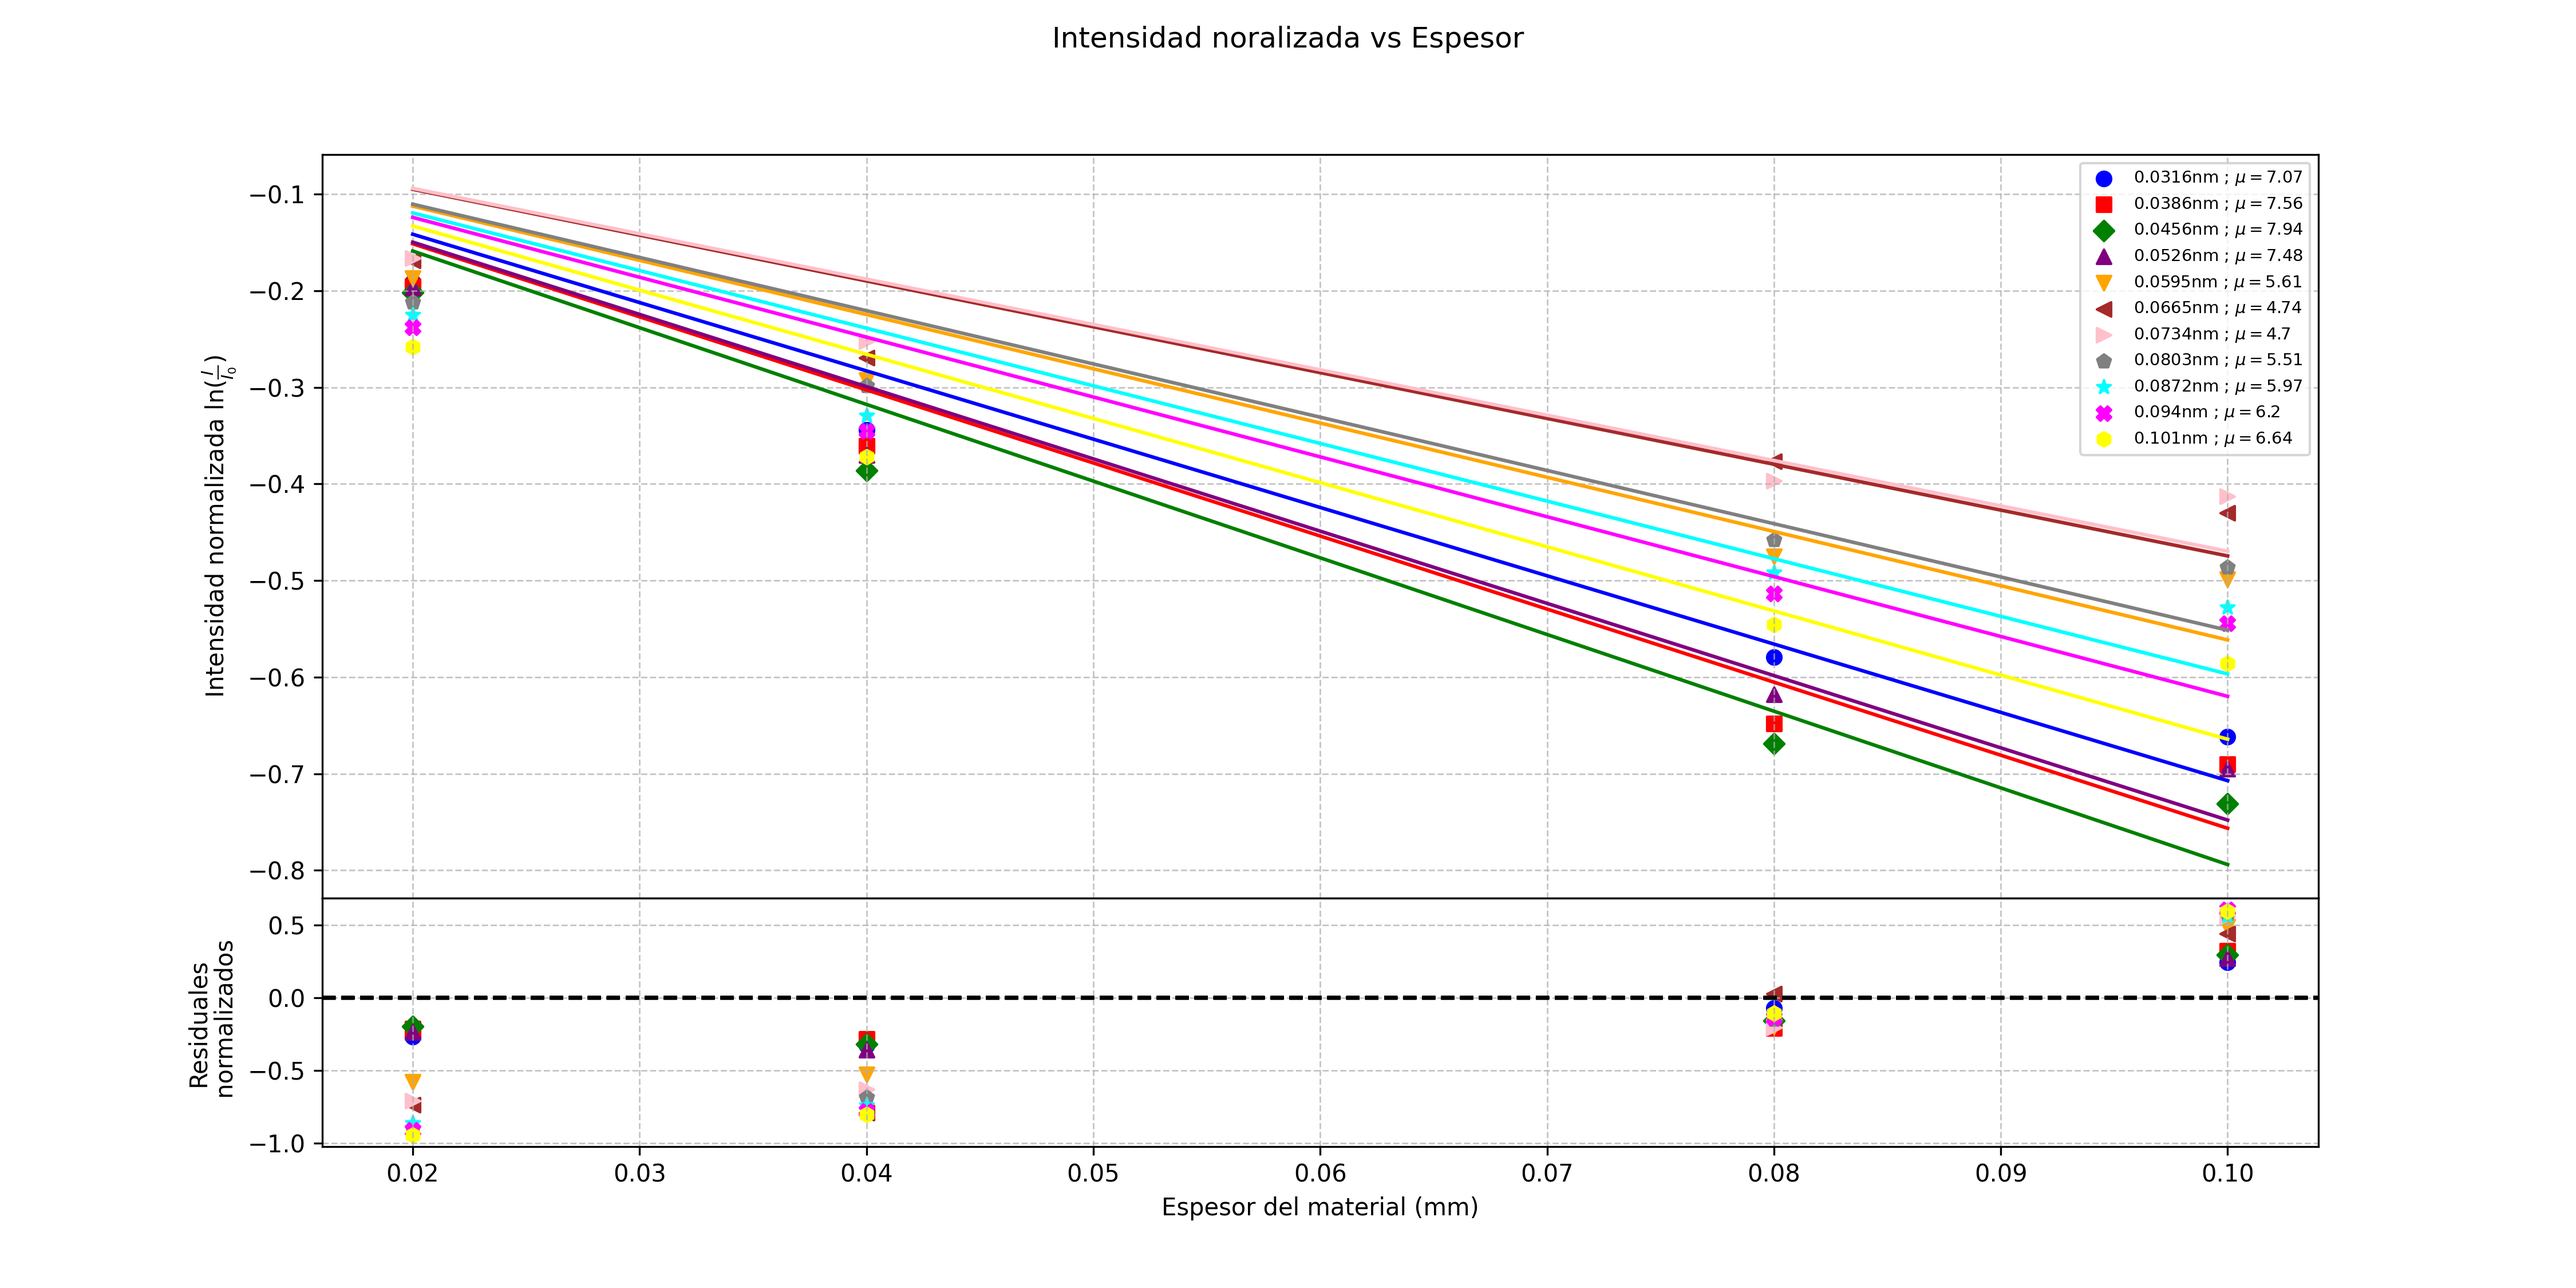
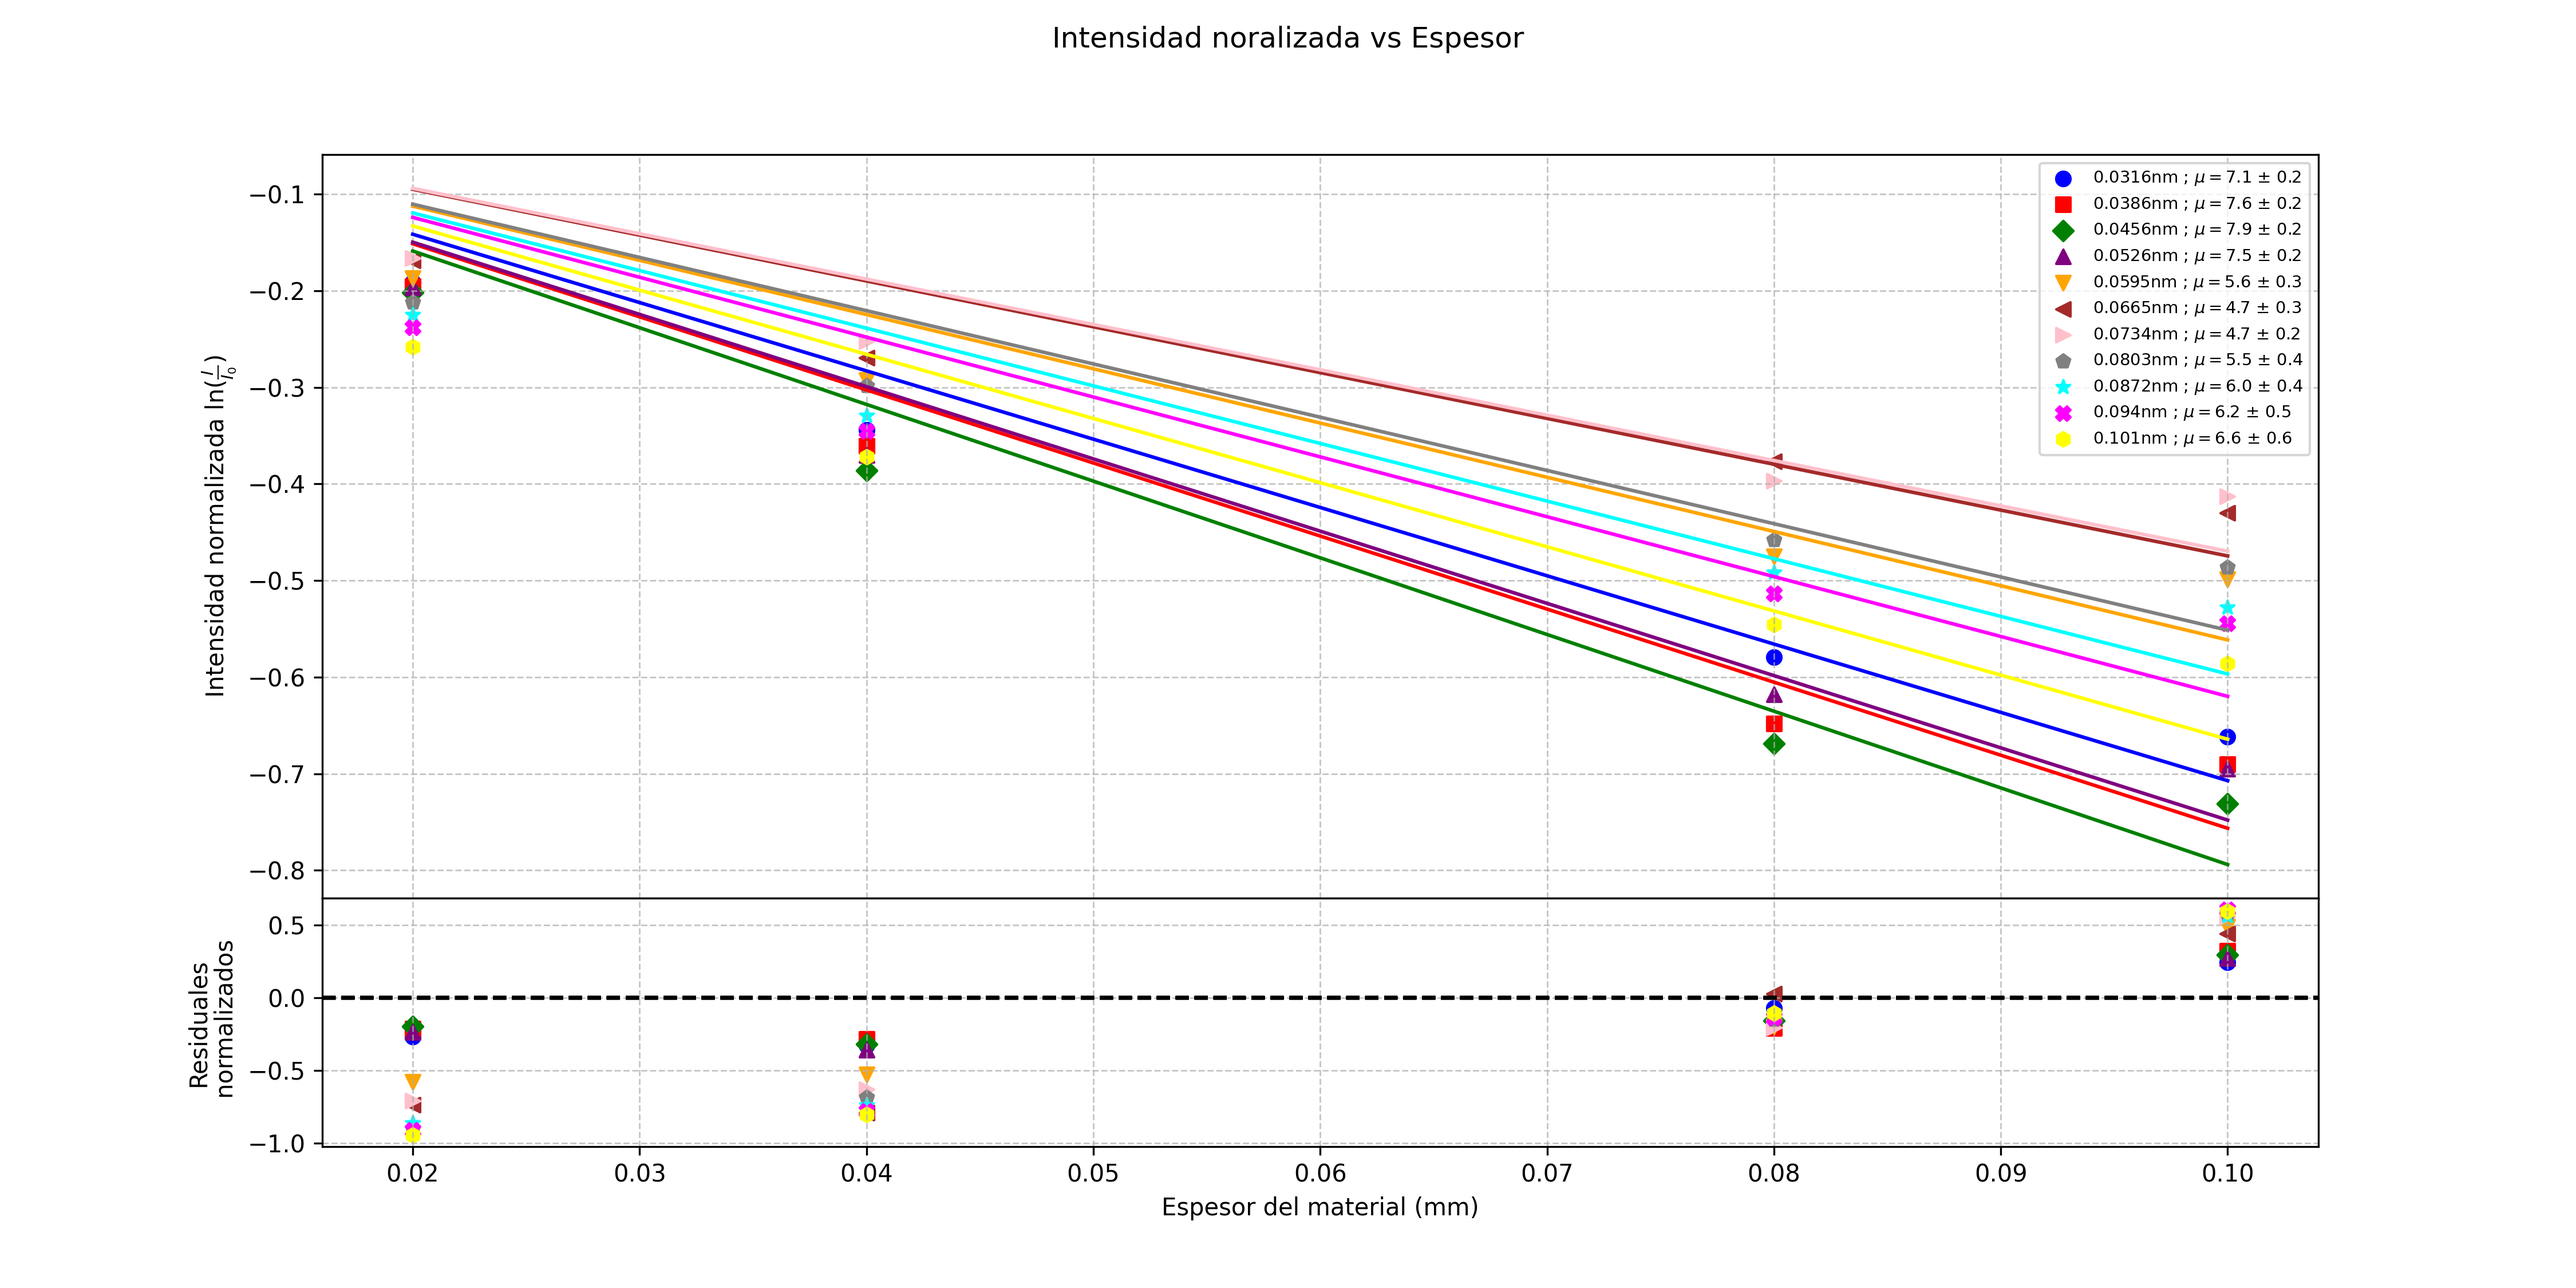
actividad 2

Changed region(s): [[0.7778, 0.1244, 0.9022, 0.3422]]

diff --git a/Rayos_X/Actividad2/Actividad2.py b/Rayos_X/Actividad2/Actividad2.py
@@ -4,7 +4,16 @@ import numpy as np
 from itertools import islice
 from scipy.optimize import curve_fit
 
+def format_number(num, precision=2):
+    if abs(num) < 1e-2 or abs(num) > 1e3: 
+        return f'{num:.{precision}e}'
+    else:  
+        return f'{num:.{precision}f}'
+
 d = 2.014e-10
+
+Aldens = 2.7
+Zndens = 7.14
 
 NameB = np.array(['Nofiltro'])
 NamesA = np.array(['aluminio002mm','aluminio004mm','aluminio008mm','aluminio01mm'])
@@ -16,6 +25,24 @@ PPath = 'Rayos_X\\Actividad2\\'
 
 def Lineal_reg(x,A):
     return A*x
+
+def lineal_regb(x,a,b):
+    return a*x + b
+
+def cuadratic_reg(x,a,b,c):
+    return a*x**2 + b*x + c
+
+def cub_reg(x,a,b,c,d):
+    return a*x**3 + b*x**2 + c*x +d
+
+def cuatro_reg(x,a,b,c,d,e):
+    return a*x*4 + b*x**3 + c*x**2 + d*x + e
+
+def cinco_reg(x,a,b,c,d,e,f):
+    return a*x**5 + b*x**4 + c*x**3 + d*x**2 + e*x + f
+
+def seis_reg(x,a,b,c,d,e,f,g):
+    return a*x**6 + b*x**5 + c*x**4 + d*x**3 + e*x**2 + f*x + g
  
 def read_data(path, Names, thikn, skip_rows=3, BName = NameB):
     
@@ -46,7 +73,7 @@ def read_data(path, Names, thikn, skip_rows=3, BName = NameB):
     
     return angles
 
-Datos = read_data(PPath,NamesA,thiknA)
+Datos1, Datos2 = read_data(PPath,NamesA,thiknA), read_data(PPath,NamesB,thiknB)
 
 fig, axs = plt.subplots(2, 1, figsize=(15,7.5), gridspec_kw={'height_ratios': [3, 1], 'hspace': 0})
 
@@ -57,21 +84,35 @@ marcadores = np.array(['o', 's', 'D', '^', 'v', '<', '>', 'p', '*', 'X', 'h'])
 
 j = 0
 
-for i in Datos:
+lambsAl = np.array([])
+muAl = np.array([])
+sigmuAl = np.array([])
+
+for i in Datos1:
     
     lamb = 2*d*np.sin(np.radians(float(i)))*(10**9)
+    lambsAl = np.append(lambsAl,float(lamb))
+    lamb = format_number(lamb, 4)
     
-    x = [Datos[i][k][0] for k in range(len(Datos[i]))]
-    y = [np.log(Datos[i][k][1]) for k in range(len(Datos[i]))]
+    x = [Datos1[i][k][0] for k in range(len(Datos1[i]))]
+    y = [np.log(Datos1[i][k][1]) for k in range(len(Datos1[i]))]
     
     param, cov = curve_fit(Lineal_reg, x, y)
+    
+    muAl = np.append(muAl, float(-param[0]))
+    
+    covn = np.sqrt(np.diagonal(cov))
+    sigmuAl  = np.append(sigmuAl, float(covn[0]))
+    covn = format_number(covn[0],0)
     
     _x = np.linspace(x[0],x[-1],200)
     _y = Lineal_reg(_x,param)
     
     res = (y - Lineal_reg(x, param))/np.std(y)
     
-    axs[0].scatter(x,y, color=colores[j], marker = marcadores[j], label=f'{lamb:.3}nm ; '+r'$\mu = $' + f'{-param[0]:.3}')
+    param = format_number(-param[0], 0)
+    
+    axs[0].scatter(x,y, color=colores[j], marker = marcadores[j], label=f'{lamb:.4}nm ; '+r'$\mu = $' + f'{param} '+ r'$\pm$'+ f' {covn}')
     axs[0].set_ylabel('Intensidad normalizada ' + r'$\ln(\frac{I}{I_{0}})$')
     axs[0].legend(fontsize=7)
     axs[0].plot(_x,_y,color=colores[j])
@@ -86,4 +127,102 @@ for i in Datos:
 for ax in axs:
     ax.grid(visible=True, linestyle="--", linewidth=0.7, alpha=0.7)
         
-plt.savefig(r'Rayos_X\\Actividad2\\IntensidadEspesorAl.png', format='png', dpi=300)
+'''plt.savefig(r'Rayos_X\\Actividad2\\IntensidadEspesorAl.png', format='png', dpi=300)'''
+
+plt.close()
+
+fig, axs = plt.subplots(2, 1, figsize=(15,7.5), gridspec_kw={'height_ratios': [3, 1], 'hspace': 0})
+
+fig.suptitle('Intensidad noralizada vs Espesor')
+
+j = 0
+
+lambsZn = np.array([])
+muZn = np.array([])
+sigmuZn = np.array([])
+
+for i in Datos1:
+    
+    lamb = 2*d*np.sin(np.radians(float(i)))*(10**9)
+    lambsZn = np.append(lambsZn,float(lamb))
+    lamb = format_number(lamb, 4)
+    
+    x = [Datos1[i][k][0] for k in range(len(Datos1[i]))]
+    y = [np.log(Datos1[i][k][1]) for k in range(len(Datos1[i]))]
+    
+    param, cov = curve_fit(Lineal_reg, x, y)
+    
+    muZn = np.append(muZn, float(-param[0]))
+    
+    covn = np.sqrt(np.diagonal(cov))
+    sigmuZn  = np.append(sigmuZn, float(covn[0]))
+    covn = format_number(covn[0],0)
+    
+    _x = np.linspace(x[0],x[-1],200)
+    _y = Lineal_reg(_x,param)
+    
+    res = (y - Lineal_reg(x, param))/np.std(y)
+    
+    param = format_number(-param[0], 0)
+    
+    axs[0].scatter(x,y, color=colores[j], marker = marcadores[j], label=f'{lamb:.4}nm ; '+r'$\mu = $' + f'{param} '+ r'$\pm$'+ f' {covn}')
+    axs[0].set_ylabel('Intensidad normalizada ' + r'$\ln(\frac{I}{I_{0}})$')
+    axs[0].legend(fontsize=7)
+    axs[0].plot(_x,_y,color=colores[j])
+    
+    axs[1].scatter(x, res, color=colores[j], marker = marcadores[j])
+    axs[1].axhline(0, color='black', linestyle='--')
+    axs[1].set_xlabel('Espesor del material (mm)')
+    axs[1].set_ylabel('Residuales\n normalizados')
+    
+    j += 1
+
+for ax in axs:
+    ax.grid(visible=True, linestyle="--", linewidth=0.7, alpha=0.7)
+    
+'''plt.savefig(r'Rayos_X\\Actividad2\\IntensidadEspesorZn.png', format='png', dpi=300)'''
+
+plt.close()
+
+muAlY = (muAl/Aldens)*10
+muZnY = (muZn/Zndens)*10
+
+lambAlX = lambsAl**3
+lambZnX = lambsZn**3
+
+sigmuAlN = (1/Aldens)*sigmuAl
+sigmuZnN = (1/Zndens)*sigmuZn
+
+fig, axs = plt.subplots(2, 1, figsize=(15,7.5), gridspec_kw={'height_ratios': [3, 1], 'hspace': 0})
+
+fig.suptitle('Coeficiente de absorción lineal vs longitud de onda')
+
+axs[0].errorbar(lambAlX,muAlY, yerr = sigmuAl, fmt='o', label='Datos Al', capsize = 3)
+axs[0].errorbar(lambZnX,muZnY, yerr = sigmuZn, fmt='o', label='Datos Zn', capsize = 3)
+axs[0].set_ylabel(r"$\frac{\mu}{\rho} \quad \frac{\mathrm{cm}^{2}}{\mathrm{g}}$")
+
+param, cov  = curve_fit(cub_reg, lambAlX, muAlY, sigma=sigmuAlN, absolute_sigma=True)
+param2, cov2 = curve_fit(cub_reg, lambZnX, muZnY, sigma=sigmuZnN, absolute_sigma=True)
+
+_x = np.linspace(np.min(lambAlX), np.max(lambAlX),200)
+_y = cub_reg(_x,*param)
+
+_x2 = np.linspace(np.min(lambZnX), np.max(lambZnX),200)
+_y2 = cub_reg(_x, *param2)
+
+axs[0].plot(_x,_y, label='Ajuste cubico', color='red', linestyle='solid')
+axs[0].plot(_x2,_y2, label='Ajuste cubico', color='red', linestyle='dashdot')
+axs[0].legend()
+
+res = (muAlY - cub_reg(lambAlX, *param))/sigmuAlN
+res2 = (muZnY - cub_reg(lambZnX, *param2))/sigmuZnN
+
+axs[1].scatter(lambAlX, res, color='black', marker = 'x', label='residuales Al')
+axs[1].scatter(lambZnX, res2, color='black', marker = 'p', label='residuales Zn')
+axs[1].axhline(0, color='black', linestyle='--')
+axs[1].set_xlabel('longitud de onda al cubo (nm^3)')
+axs[1].set_ylabel('Residuales\n normalizados')
+
+axs[1].legend()
+
+'''plt.savefig(r'Rayos_X\\Actividad2\\coeficientedeatenuacni.png', format='png', dpi=300)'''

diff --git a/Rayos_X/Actividad1/Actividad1.py b/Rayos_X/Actividad1/Actividad1.py
@@ -58,8 +58,8 @@ y_ = lorentzian(x_, param[0], param[1], param[2])
 #Voigt profile
 
 guessv = [max(y),2.68e-10,(max(xn)-min(xn))/10,(max(xn)-min(xn))/20]
-guessv2 = [param[0], param[1], 1, param[2]]
-guessv3 = [max(y),2.68e-10,(max(xn)-min(xn)),(max(xn)-min(xn))/20]
+guessv2 = [param[0], param[1], 1, param[2]*20]
+guessv3 = [1,2.68e-10, (max(xn)-min(xn)),(max(xn)-min(xn))]
 
 paramv, covv = curve_fit(voigt_profile,xn,y,p0=guessv2, sigma=yerr, absolute_sigma=True)
 

diff --git a/Rayos_X/Actividad3/Actividad3.py b/Rayos_X/Actividad3/Actividad3.py
@@ -1,0 +1,5 @@
+import numpy as np
+import matplotlib.pyplot as plt
+
+def read dataTc(path):
+    
